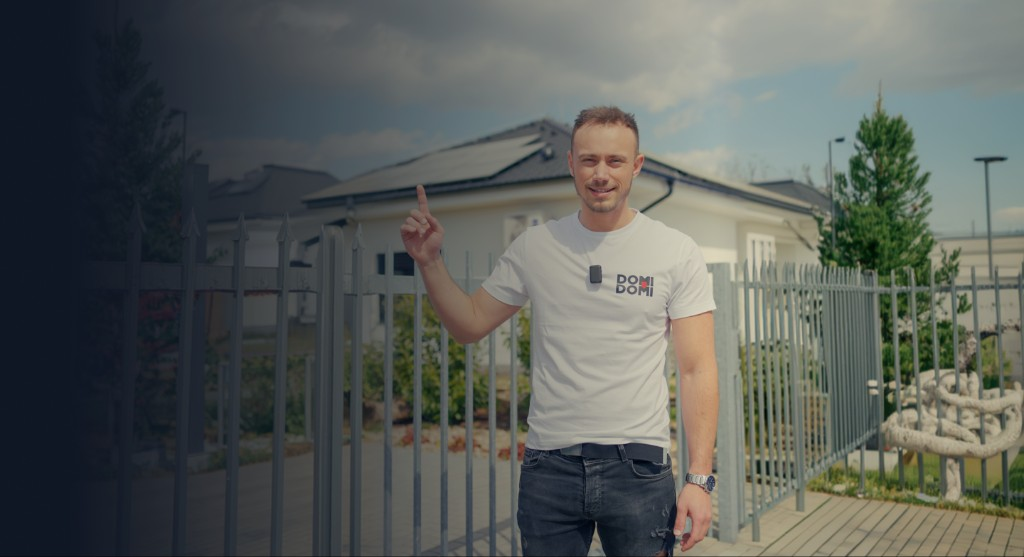
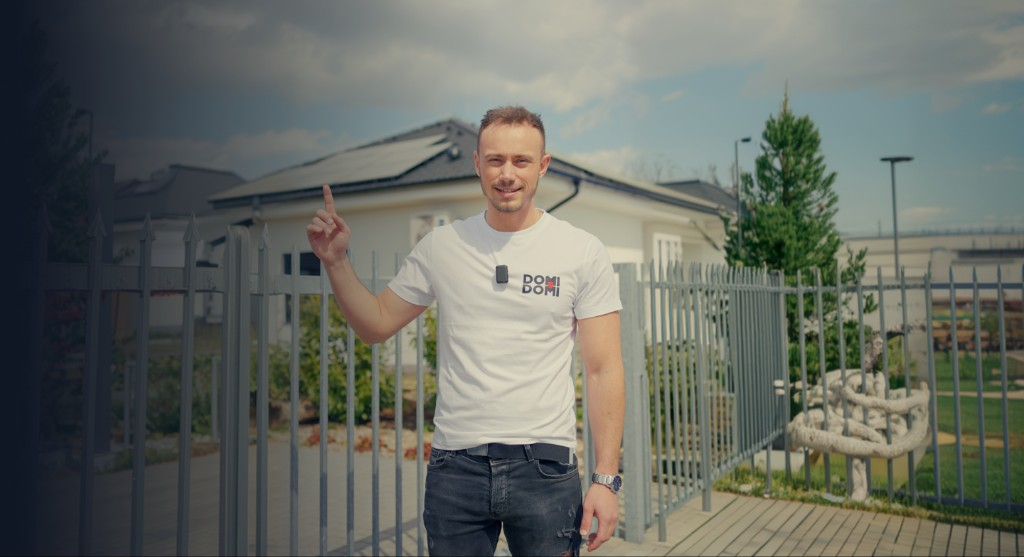
Update hero photo: brighter version with house & FVE in background
Made-with: Cursor

diff --git a/index.html b/index.html
@@ -198,7 +198,7 @@ j=d.createElement(s),dl=l!='dataLayer'?'&l='+l:'';j.async=true;j.src=
     background-color: #0a0f18;
     background-image:
       linear-gradient(90deg, rgba(10,15,24,.95) 0%, rgba(10,15,24,.78) 45%, rgba(10,15,24,.35) 75%, rgba(10,15,24,.65) 100%),
-      url('hero-bg.png?v=3');
+      url('hero-bg.png?v=4');
     background-size: cover, cover;
     background-position: center, right center;
     background-repeat: no-repeat, no-repeat;
